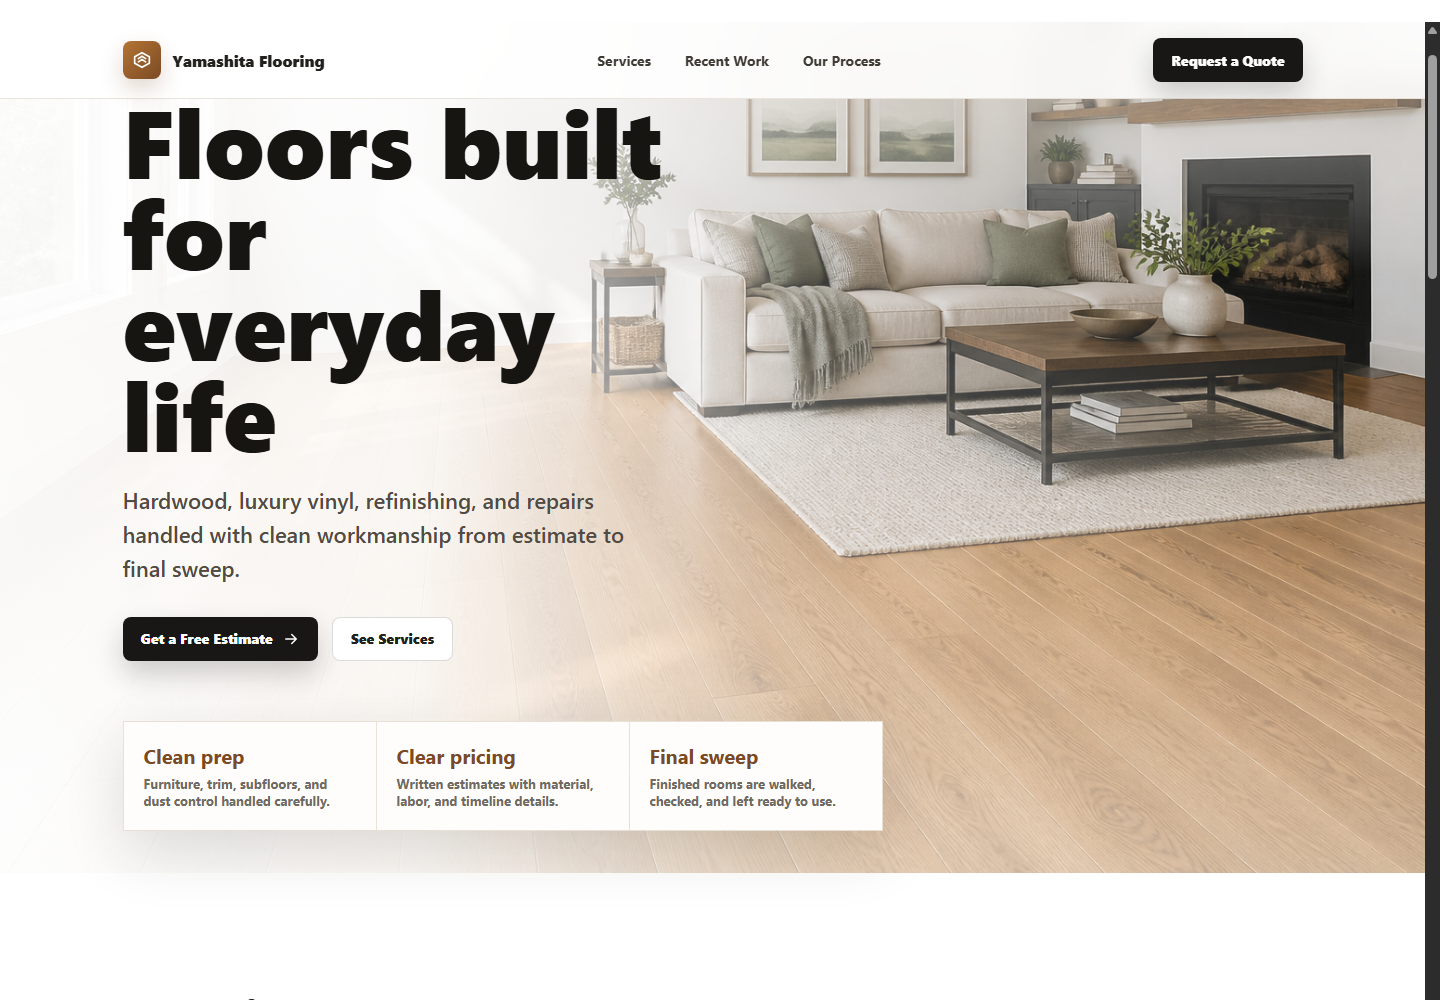
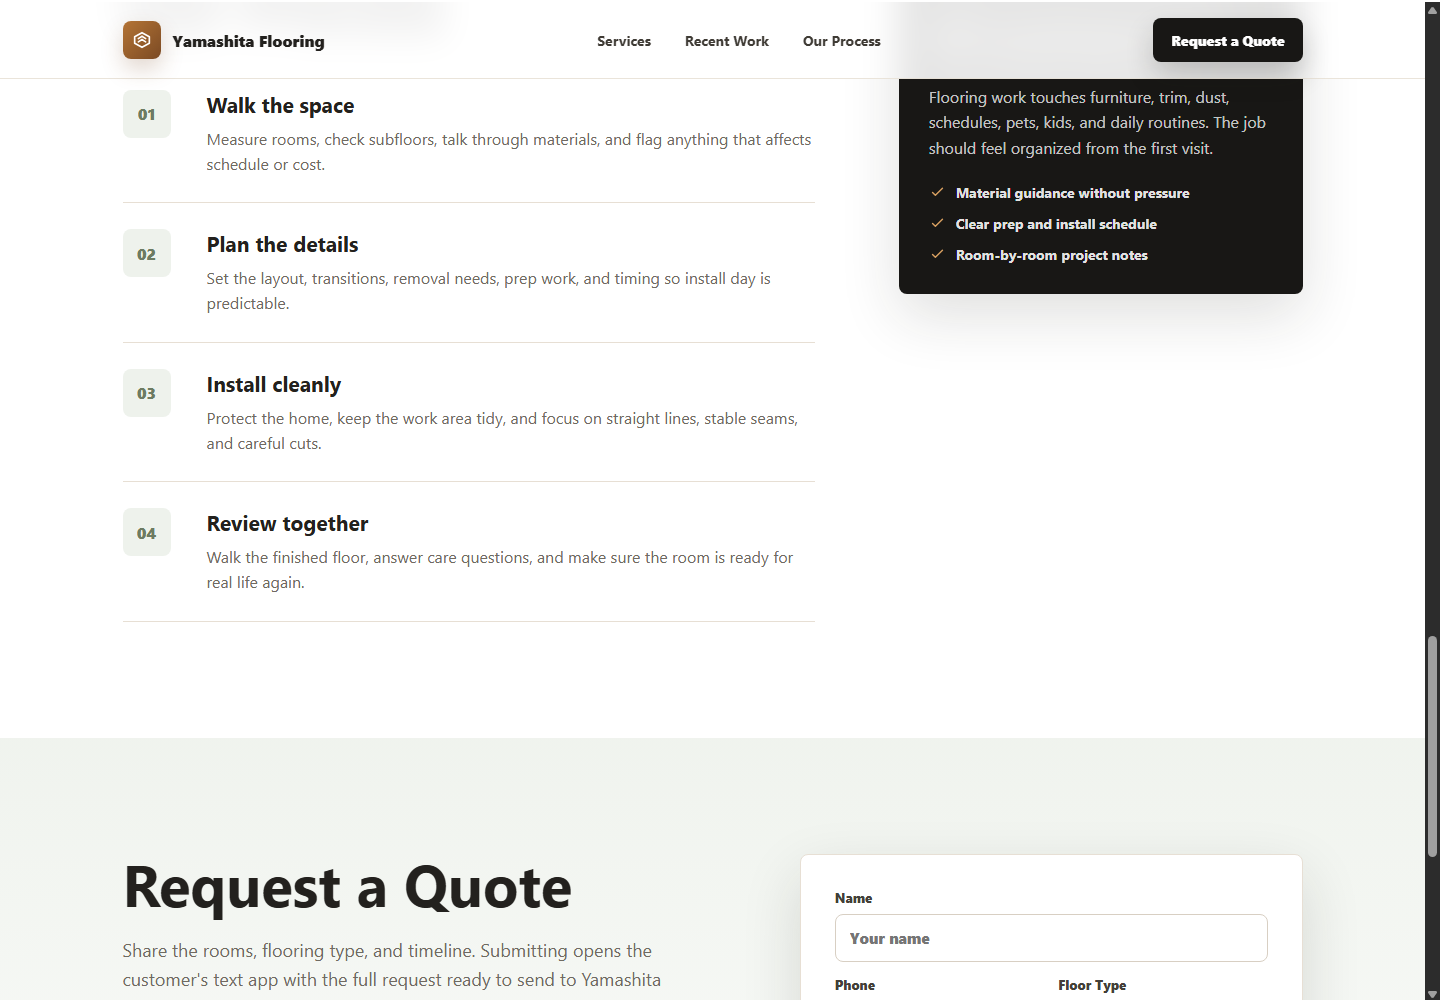
Add laptop contact fallbacks

diff --git a/index.html b/index.html
@@ -466,6 +466,12 @@
       gap: 10px;
     }
 
+    .contact-lines a {
+      text-decoration: underline;
+      text-decoration-thickness: 1px;
+      text-underline-offset: 4px;
+    }
+
     .contact-lines svg {
       width: 19px;
       height: 19px;
@@ -524,6 +530,59 @@
       color: var(--sage);
       font-size: 14px;
       font-weight: 750;
+    }
+
+    .quote-helper {
+      margin: -2px 0 0;
+      color: var(--muted);
+      font-size: 13px;
+      line-height: 1.45;
+    }
+
+    .form-actions {
+      display: grid;
+      grid-template-columns: 1fr 1fr;
+      gap: 12px;
+    }
+
+    .button.copy {
+      background: #fff;
+      color: var(--ink);
+      border: 1px solid rgba(35, 33, 30, .16);
+      box-shadow: none;
+    }
+
+    .qr-panel {
+      display: grid;
+      grid-template-columns: 96px minmax(0, 1fr);
+      gap: 16px;
+      align-items: center;
+      margin-top: 18px;
+      padding: 16px;
+      border: 1px solid var(--line);
+      border-radius: 8px;
+      background: rgba(255, 255, 255, .72);
+    }
+
+    .qr-panel img {
+      width: 96px;
+      height: 96px;
+      border-radius: 6px;
+      border: 1px solid var(--line);
+    }
+
+    .qr-panel strong {
+      display: block;
+      font-size: 15px;
+      color: var(--ink);
+    }
+
+    .qr-panel span {
+      display: block;
+      margin-top: 6px;
+      color: var(--muted);
+      font-size: 13px;
+      line-height: 1.45;
     }
 
     footer {
@@ -662,6 +721,16 @@
 
       .form-row {
         grid-template-columns: 1fr;
+      }
+
+      .form-actions,
+      .qr-panel {
+        grid-template-columns: 1fr;
+      }
+
+      .qr-panel img {
+        width: 112px;
+        height: 112px;
       }
 
       .footer-inner {
@@ -823,8 +892,15 @@
           <h2 id="quote-title">Request a Quote</h2>
           <p>Share the rooms, flooring type, and timeline. Submitting opens the customer's text app with the full request ready to send to Yamashita Flooring.</p>
           <div class="contact-lines">
-            <span><svg viewBox="0 0 24 24" fill="none" aria-hidden="true"><path d="M22 16.9v3a2 2 0 0 1-2.2 2 19.8 19.8 0 0 1-8.6-3.1 19.5 19.5 0 0 1-6-6A19.8 19.8 0 0 1 2.1 4.2 2 2 0 0 1 4.1 2h3a2 2 0 0 1 2 1.7c.1.9.3 1.8.6 2.6a2 2 0 0 1-.5 2.1L8 9.6a16 16 0 0 0 6.4 6.4l1.2-1.2a2 2 0 0 1 2.1-.5c.8.3 1.7.5 2.6.6a2 2 0 0 1 1.7 2Z" stroke="currentColor" stroke-width="1.8" stroke-linejoin="round"/></svg>(909) 745-0028</span>
-            <span><svg viewBox="0 0 24 24" fill="none" aria-hidden="true"><path d="M4 6h16v12H4zM4 7l8 6 8-6" stroke="currentColor" stroke-width="1.8" stroke-linejoin="round"/></svg>[email redacted]</span>
+            <span><svg viewBox="0 0 24 24" fill="none" aria-hidden="true"><path d="M22 16.9v3a2 [phone redacted] [phone redacted]-6A19.[phone redacted] 1 4.1 2h3a2 2 0 0 1 2 1.7c.[phone redacted].6a2 2 0 0 1-.5 2.1L8 9.6a16 [phone redacted].4l1.2-1.2a2 2 0 0 1 2.1-.5c.[phone redacted].6a2 2 0 0 1 1.7 2Z" stroke="currentColor" stroke-width="1.8" stroke-linejoin="round"/></svg><a href="tel:[phone redacted]">[phone redacted]</a></span>
+            <span><svg viewBox="0 0 24 24" fill="none" aria-hidden="true"><path d="M4 6h16v12H4zM4 7l8 6 8-6" stroke="currentColor" stroke-width="1.8" stroke-linejoin="round"/></svg><a href="mailto:[email redacted]">[email redacted]</a></span>
+          </div>
+          <div class="qr-panel">
+            <img src="assets/text-request-qr.png" alt="QR code to start a text request to Yamashita Flooring.">
+            <div>
+              <strong>On a laptop?</strong>
+              <span>Scan this with your phone to start a text, or use the copy button after filling out the form.</span>
+            </div>
           </div>
         </div>
         <form id="quoteForm">
@@ -842,7 +918,11 @@
             </label>
           </div>
           <label>Project Details <textarea name="details" placeholder="Rooms, approximate size, timeline, and anything you want checked."></textarea></label>
-          <button class="button" type="submit">Text Request</button>
+          <p class="quote-helper">On a phone, Text Request opens the Messages app. On a laptop, use Copy Request, call/text the number, or email directly.</p>
+          <div class="form-actions">
+            <button class="button" type="submit">Text Request</button>
+            <button class="button copy" id="copyRequest" type="button">Copy Request</button>
+          </div>
           <p class="form-note" id="formNote" role="status" aria-live="polite"></p>
         </form>
       </div>
@@ -860,9 +940,9 @@
     const form = document.querySelector("#quoteForm");
     const note = document.querySelector("#formNote");
     const submitButton = form.querySelector("button[type='submit']");
+    const copyButton = document.querySelector("#copyRequest");
 
-    form.addEventListener("submit", (event) => {
-      event.preventDefault();
+    function getQuoteMessage() {
       const formData = new FormData(form);
       const name = formData.get("name") || "New lead";
       const phone = formData.get("phone") || "No phone provided";
@@ -875,6 +955,11 @@
         `Floor type: ${floor}`,
         `Details: ${details}`
       ].join("\n");
+    }
+
+    form.addEventListener("submit", (event) => {
+      event.preventDefault();
+      const message = getQuoteMessage();
 
       submitButton.textContent = "Opening Text...";
       note.textContent = "Opening your text app with the quote request ready to send.";
@@ -883,6 +968,17 @@
       window.setTimeout(() => {
         submitButton.textContent = "Text Request";
       }, 1200);
+    });
+
+    copyButton.addEventListener("click", async () => {
+      const message = getQuoteMessage();
+
+      try {
+        await navigator.clipboard.writeText(message);
+        note.textContent = "Quote request copied. Paste it into a text, email, or message app.";
+      } catch (error) {
+        note.textContent = "Copy was blocked. Select the project details and copy them manually, or call/text [phone redacted].";
+      }
     });
   </script>
 </body>